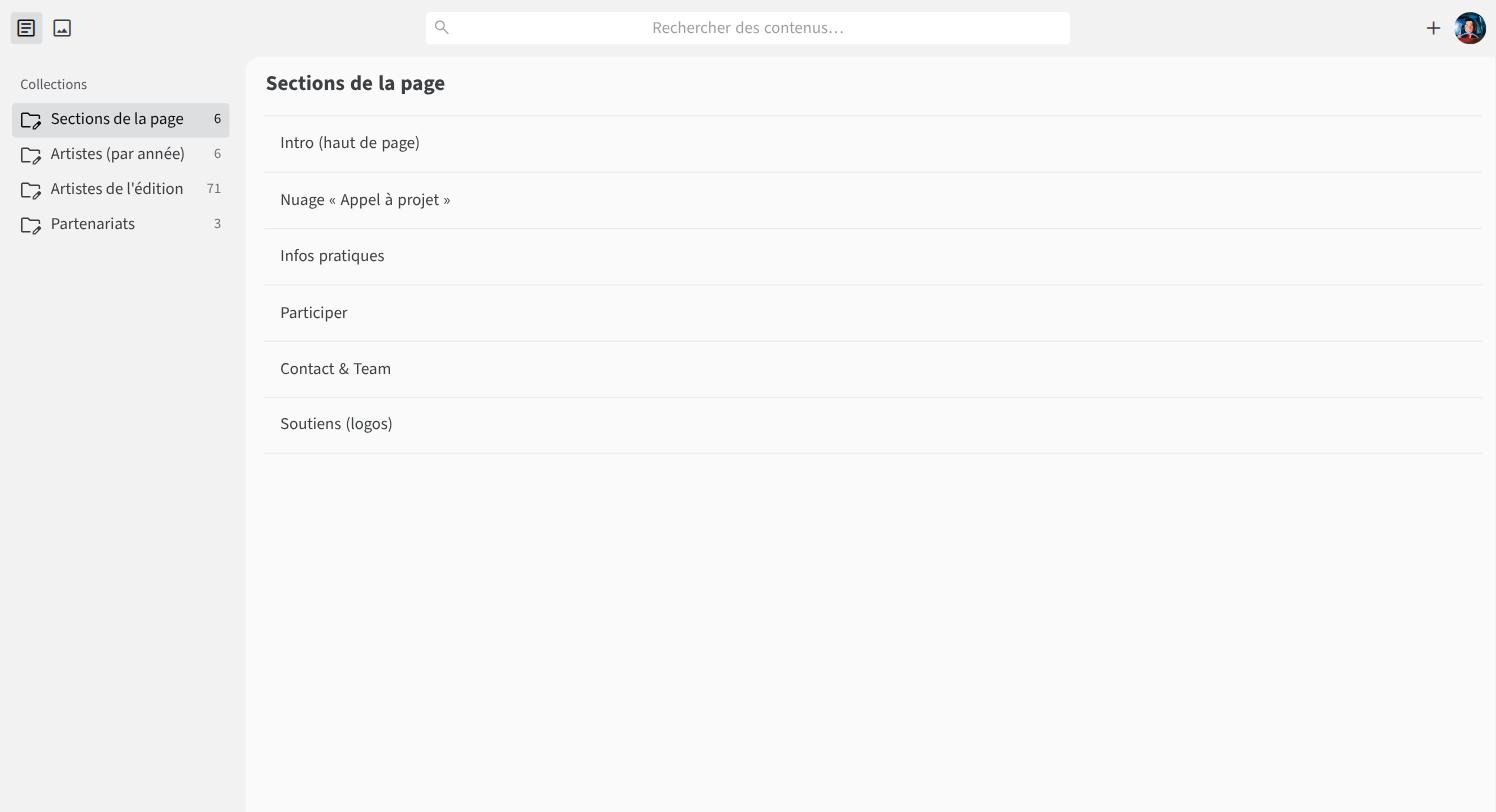
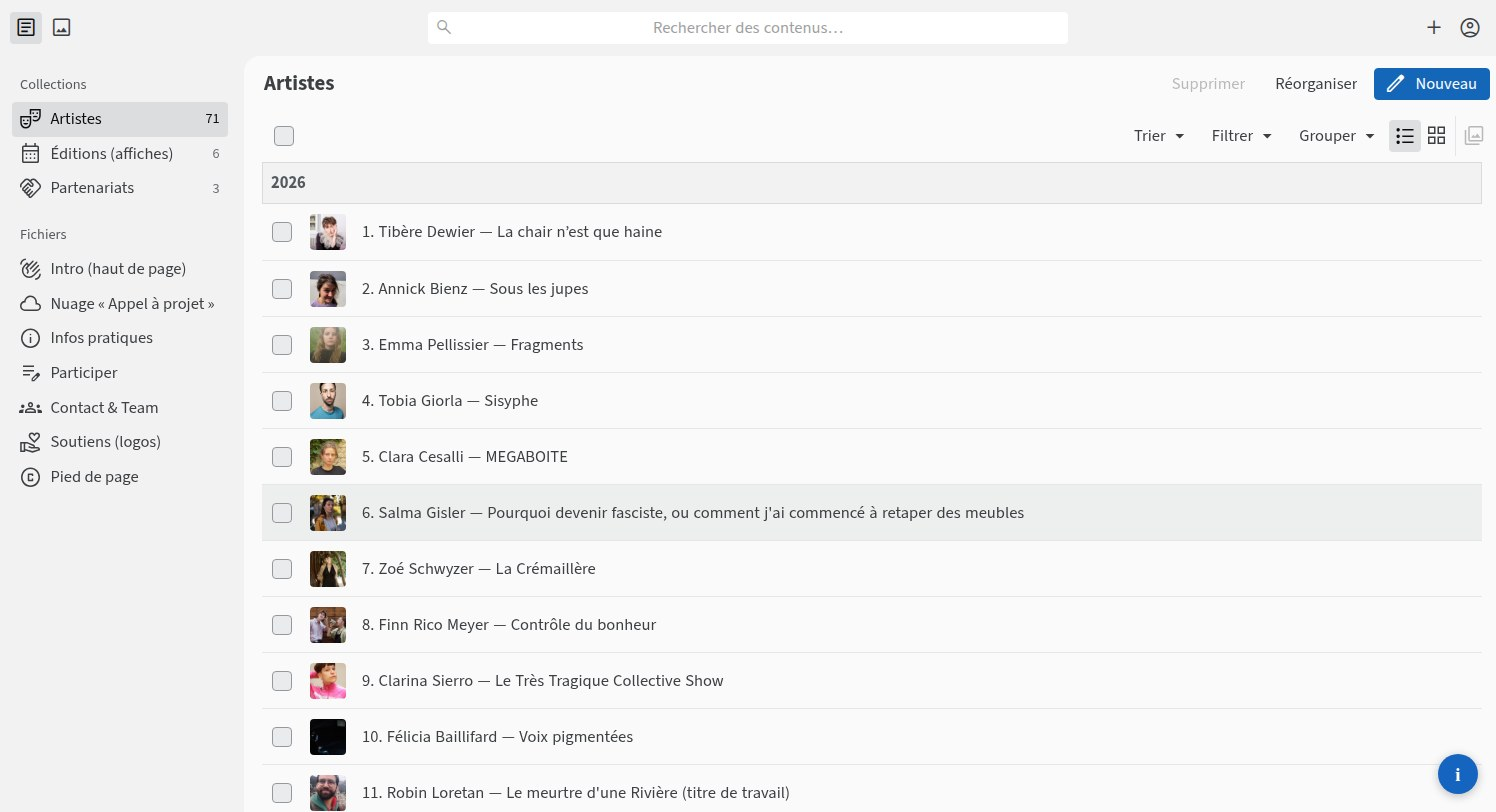
feat(admin): interface organisée par éditions — filtre par défaut, drag-and-drop, sections en accès direct
Refonte de la config Sveltia CMS autour des nouveautés récentes (≥ 0.186) :

- La liste Artistes s'ouvre filtrée sur l'édition 2026 (view_filters.default,
  à déplacer chaque année), avec vignettes photos, tri par ordre et
  regroupement par édition (view_groups).
- Réorganisation par glisser-déposer (bouton « Réorganiser ») : le champ
  order est renuméroté édition par édition, sans renommer les fichiers.
  Idem pour les Partenariats (séquence plate).
- Les sections de la page deviennent des singletons : chacune est en accès
  direct dans la barre latérale (groupe « Fichiers »), avec icône — plus de
  collection « Sections de la page » intermédiaire.
- Icônes et labels clarifiés : « Artistes » (fiches) vs « Éditions
  (affiches) » (année + affiches), app_title, vignettes dans les listes de
  photos/affiches/logos.

Aide (/admin/aide.html) réécrite en conséquence, captures régénérées sur la
nouvelle interface (via le backend test-repo de Sveltia piloté en headless),
dont une nouvelle pour le mode Réorganiser. Conventions CLAUDE.md/README mises
à jour : le préfixe numérique des fichiers reste figé à la création, seul le
champ order fait foi.

Claude-Session: https://claude.ai/code/session_017mh4H3Y21cM26yg5vW5tpT

diff --git a/public/admin/aide.html b/public/admin/aide.html
@@ -133,12 +133,12 @@
       <p>La colonne de gauche liste tout ce qui est modifiable :</p>
       <div class="tablewrap"><table>
         <tr><th>Rubrique</th><th>Contenu</th></tr>
-        <tr><td>Sections de la page</td><td>Les blocs de texte du site : intro, nuage « Appel à projet », Infos pratiques, Participer, Contact &amp; Team, logos des soutiens, ligne du pied de page</td></tr>
-        <tr><td>Artistes de l'édition</td><td>Une fiche par artiste, toutes éditions confondues (71 fiches)</td></tr>
-        <tr><td>Artistes (par année)</td><td>L'affiche de chaque édition et son crédit graphique</td></tr>
+        <tr><td>Artistes</td><td>Une fiche par artiste. La liste s'ouvre sur l'édition en cours ; le menu <b>Filtrer</b> passe aux éditions précédentes</td></tr>
+        <tr><td>Éditions (affiches)</td><td>Une entrée par édition : l'année et ses affiches</td></tr>
         <tr><td>Partenariats</td><td>La Crémaillère, L'entrée en matière, L'Oblique…</td></tr>
+        <tr><td>Fichiers</td><td>Chaque section de texte du site, en accès direct : intro, nuage « Appel à projet », Infos pratiques, Participer, Contact &amp; Team, Soutiens (logos), pied de page</td></tr>
       </table></div>
-      <p>Avec 71 fiches artistes, la <b>recherche</b> (champ en haut au centre) est souvent plus rapide : elle cherche dans toutes les rubriques.</p>
+      <p>Sous <b>Fichiers</b>, un clic sur une section ouvre directement son formulaire — pas de liste intermédiaire. Et avec plus de 70 fiches artistes, la <b>recherche</b> (champ en haut au centre) est souvent la plus rapide : elle cherche dans toutes les rubriques.</p>
       <figure><img src="captures/admin-accueil.jpg" alt="L'accueil de l'admin" loading="lazy"><figcaption>L'accueil : rubriques à gauche, recherche en haut.</figcaption></figure>
       <figure><img src="captures/admin-recherche.jpg" alt="Résultat de recherche" loading="lazy"><figcaption>Taper « Pellissier » retrouve la fiche directement.</figcaption></figure>
     </div>
@@ -148,10 +148,10 @@
 
   <details id="titre">
     <summary><span class="t">Corriger le titre d'un spectacle (ou n'importe quel champ d'une fiche) <a class="anchor" href="#titre">#</a></span><span class="chev">▶</span>
-      <span class="p"><b>Artistes de l'édition</b> → la fiche → champ <b>Titre du spectacle</b> → <b>Enregistrer</b>.</span></summary>
+      <span class="p"><b>Artistes</b> → la fiche → champ <b>Titre du spectacle</b> → <b>Enregistrer</b>.</span></summary>
     <div class="body">
       <ol>
-        <li>Colonne de gauche → <b>Artistes de l'édition</b> (ou taper le nom dans la recherche).</li>
+        <li>Colonne de gauche → <b>Artistes</b> (ou taper le nom dans la recherche). La liste s'ouvre sur l'édition en cours, avec la photo de chaque artiste en vignette ; pour une édition passée, le menu <b>Filtrer</b> en haut de la liste.</li>
         <li>Cliquer sur la ligne de l'artiste. La liste affiche <code>ordre. Nom — Titre du spectacle</code>.</li>
         <li>Dans la fiche, corriger le champ voulu. L'aperçu à droite se met à jour en direct.</li>
         <li><b>Enregistrer</b>, en haut à droite.</li>
@@ -163,7 +163,7 @@
 
   <details id="nouvelle-fiche">
     <summary><span class="t">Ajouter un·e artiste <a class="anchor" href="#nouvelle-fiche">#</a></span><span class="chev">▶</span>
-      <span class="p"><b>Artistes de l'édition</b> → <b>Nouveau</b> (en haut à droite) → remplir → <b>Enregistrer</b>. Année = <b>2026</b>, Ordre = rang de la première représentation.</span></summary>
+      <span class="p"><b>Artistes</b> → <b>Nouveau</b> (en haut à droite) → remplir → <b>Enregistrer</b>. Année = <b>2026</b>, Ordre = rang de la première représentation.</span></summary>
     <div class="body">
       <figure><img src="captures/admin-artistes-liste.jpg" alt="La liste des fiches artistes" loading="lazy"><figcaption>Le bouton Nouveau, en haut à droite de la liste.</figcaption></figure>
       <p>Chaque fiche devient une carte qui se retourne sur le site : photo et nom au recto, tout le reste au verso.</p>
@@ -204,9 +204,11 @@
 
   <details id="ordre">
     <summary><span class="t">Changer l'ordre des artistes <a class="anchor" href="#ordre">#</a></span><span class="chev">▶</span>
-      <span class="p">Fiche → champ <b>Ordre</b> → le numéro de passage → <b>Enregistrer</b>.</span></summary>
+      <span class="p"><b>Artistes</b> → bouton <b>Réorganiser</b> (en haut de la liste) → glisser les fiches → <b>Terminer</b>.</span></summary>
     <div class="body">
-      <p>Les artistes apparaissent sur le site dans l'ordre du champ <b>Ordre</b>, du plus petit au plus grand, à l'intérieur de leur année. La convention : numéroter selon la première représentation de chacun·e. Deux fiches peuvent porter le même numéro si elles sont d'années différentes.</p>
+      <p>Le plus simple : dans la liste <b>Artistes</b>, cliquer <b>Réorganiser</b>. Les fiches se regroupent par édition et se déplacent à la souris (ou au doigt) ; en terminant, la numérotation est réécrite automatiquement, édition par édition. On ne peut pas déplacer une fiche d'une édition à l'autre — pour ça, changer son champ <b>Année</b>.</p>
+      <figure><img src="captures/admin-reorganiser.jpg" alt="Le mode Réorganiser, fiches groupées par édition" loading="lazy"><figcaption>Le mode Réorganiser : glisser une fiche, puis Terminé.</figcaption></figure>
+      <p>L'autre méthode marche toujours : ouvrir la fiche et taper le numéro dans le champ <b>Ordre</b>. Les artistes apparaissent sur le site dans l'ordre de ce champ, du plus petit au plus grand, à l'intérieur de leur année. La convention : numéroter selon la première représentation de chacun·e. Deux fiches peuvent porter le même numéro si elles sont d'années différentes.</p>
     </div>
   </details>
 
@@ -221,9 +223,10 @@
 
   <details id="affiche">
     <summary><span class="t">Ajouter l'affiche d'une nouvelle édition <a class="anchor" href="#affiche">#</a></span><span class="chev">▶</span>
-      <span class="p"><b>Artistes (par année)</b> → <b>Nouveau</b> → Année → Affiches (image + crédit graphiste) → <b>Enregistrer</b>.</span></summary>
+      <span class="p"><b>Éditions (affiches)</b> → <b>Nouveau</b> → Année → Affiches (image + crédit graphiste) → <b>Enregistrer</b>.</span></summary>
     <div class="body">
       <p>Une entrée par édition. Le champ <b>Année</b> doit être identique à celui des fiches artistes de cette édition (ex. <code>2026</code>) : c'est ce qui fait apparaître l'onglet dans la section Artistes. On peut mettre plusieurs affiches si l'édition en a eu plusieurs.</p>
+      <div class="note">Pour une nouvelle édition, demander aussi à Pierre de mettre à jour le filtre par défaut de la liste Artistes (un réglage dans la configuration de l'admin), pour qu'elle s'ouvre sur la nouvelle année.</div>
     </div>
   </details>
 
@@ -231,7 +234,7 @@
 
   <details id="sections">
     <summary><span class="t">Modifier l'intro, les Infos pratiques, Participer, Contact &amp; Team <a class="anchor" href="#sections">#</a></span><span class="chev">▶</span>
-      <span class="p"><b>Sections de la page</b> → la section → le texte → <b>Enregistrer</b>.</span></summary>
+      <span class="p">Colonne de gauche, groupe <b>Fichiers</b> → la section → le texte → <b>Enregistrer</b>.</span></summary>
     <div class="body">
       <div class="tablewrap"><table>
         <tr><th>Section</th><th>Ce qu'elle contient</th></tr>
@@ -255,7 +258,7 @@
 
   <details id="nuage">
     <summary><span class="t">Afficher ou masquer le nuage « Appel à projet » <a class="anchor" href="#nuage">#</a></span><span class="chev">▶</span>
-      <span class="p"><b>Sections de la page</b> → <b>Nuage « Appel à projet »</b> → case <b>Visible</b> → <b>Enregistrer</b>.</span></summary>
+      <span class="p">Colonne de gauche → <b>Nuage « Appel à projet »</b> → case <b>Visible</b> → <b>Enregistrer</b>.</span></summary>
     <div class="body">
       <ul>
         <li><b>Visible</b> : l'interrupteur. Coché à l'ouverture de l'appel, décoché à la clôture.</li>
@@ -269,7 +272,7 @@
 
   <details id="logos">
     <summary><span class="t">Ajouter ou retirer un logo de soutien <a class="anchor" href="#logos">#</a></span><span class="chev">▶</span>
-      <span class="p"><b>Sections de la page</b> → <b>Soutiens (logos)</b> → liste <b>Logos</b> → ajouter / supprimer → <b>Enregistrer</b>.</span></summary>
+      <span class="p">Colonne de gauche → <b>Soutiens (logos)</b> → liste <b>Logos</b> → ajouter / supprimer → <b>Enregistrer</b>.</span></summary>
     <div class="body">
       <p>Chaque logo = une image, un <b>Nom</b> (affiché si l'image ne charge pas, et lu par les lecteurs d'écran) et, si on veut, un <b>Lien</b> vers le site de l'institution. L'ordre de la liste est l'ordre d'affichage : les flèches déplacent un logo.</p>
       <p>Format idéal : PNG à fond transparent, ou SVG. Éviter les logos en JPEG avec un fond blanc, ils font un rectangle sur le fond rose.</p>
@@ -280,7 +283,7 @@
     <summary><span class="t">Modifier ou ajouter un partenariat <a class="anchor" href="#partenariats">#</a></span><span class="chev">▶</span>
       <span class="p"><b>Partenariats</b> → la fiche (ou <b>Nouveau</b>) → Nom, Ordre, Texte → <b>Enregistrer</b>.</span></summary>
     <div class="body">
-      <p>Un partenariat = un nom, un ordre d'affichage et un texte. Ils s'affichent dans la section Partenariats, triés par <b>Ordre</b>.</p>
+      <p>Un partenariat = un nom, un ordre d'affichage et un texte. Ils s'affichent dans la section Partenariats, triés par <b>Ordre</b> — modifiable aussi par glisser-déposer avec le bouton <b>Réorganiser</b>, en haut de la liste.</p>
     </div>
   </details>
 

diff --git a/CLAUDE.md b/CLAUDE.md
@@ -39,13 +39,13 @@ Pas de tests ni de linter configurés.
   - Infomaniak (seul déploiement) : `.github/workflows/deploy-infomaniak.yml`, déclenché par `dev` — `npm run generate` puis rsync de `.output/public` via SSH vers l'hébergement mutualisé Infomaniak (secrets `INFOMANIAK_*` dans GitHub ; le job se saute tant qu'ils manquent). En production sur `faiscommecheztoi.ch` depuis la bascule d'août 2026 — le domaine a été repointé dans le Manager du dossier WordPress vers ce dossier (rollback = repointer l'ancien dossier tant qu'il existe). Servi à la racine, provider d'images IPX (build-time) — ne pas mettre `NUXT_IMAGE_PROVIDER=cloudflare`. `public/.htaccess` porte les 301 depuis les anciennes URLs WordPress.
   - Cloudflare Workers (alternative, non utilisée) : `wrangler.jsonc` sert `.output/public` en static assets.
 
-- **CMS.** `public/admin/` : Sveltia CMS, backend GitHub sur la branche `dev`, OAuth via le worker `sveltia-cms-auth` (le repo doit être autorisé dans le worker). Les images uploadées vont dans `public/uploads/`.
+- **CMS.** `public/admin/` : Sveltia CMS, backend GitHub sur la branche `dev`, OAuth via le worker `sveltia-cms-auth` (le repo doit être autorisé dans le worker). Les images uploadées vont dans `public/uploads/`. L'interface s'appuie sur des options Sveltia ≥ 0.186 (`index.html` charge la dernière version depuis unpkg) : les sections de la page sont des `singletons` (accès direct dans la barre latérale), la liste des artistes s'ouvre filtrée sur l'édition courante (`view_filters.default` — **à déplacer chaque année** dans `config.yml`), et l'ordre se change par glisser-déposer (`reorder: {group: year}`, renuméroté édition par édition dans le champ `order`).
 
 ## Conventions
 
 - Les images de contenu vivent dans `public/uploads/`.
 - Après ajout/changement d'images, toujours lancer `npm run update-images` (ou `npm run generate`).
-- Les fichiers `content/partenariats/` et `content/programme/` gardent leur préfixe numérique (ordre d'affichage, doublé par le champ `order`). Pour `programme/`, l'ordre est celui de la première représentation, et le champ `year` décide sous quel onglet de la section Artistes la fiche apparaît.
+- Les fichiers `content/partenariats/` et `content/programme/` gardent un préfixe numérique dans leur nom, fixé à la création. C'est le champ `order` du frontmatter qui fait foi pour l'affichage : le réordonnancement par glisser-déposer du CMS réécrit `order` sans renommer les fichiers, le préfixe peut donc diverger — ne pas s'y fier. Pour `programme/`, l'ordre est celui de la première représentation, et le champ `year` décide sous quel onglet de la section Artistes la fiche apparaît.
 - Tout tri `queryContent` sur un champ numérique doit passer `$numeric: true` — sinon les valeurs sont comparées comme des chaînes et 10 se retrouve entre 1 et 2.
 - Une fiche artiste porte ses portraits dans un `photos:` **à la racine** du frontmatter (liste : la première s'affiche, les suivantes se feuillettent) : `updateImageDimensions.mjs` ne descend pas dans les objets imbriqués, un portrait rangé ailleurs serait ignoré en silence.
 - Les réponses brutes des artistes (tableurs, photos originales) vivent dans `formulaires/`, hors dépôt (200 Mo, ignoré par git).

diff --git a/README.md b/README.md
@@ -28,6 +28,8 @@ Le contenu vit dans `content/` (une section = un fichier / dossier). Après tout
 
 <https://faiscommecheztoi.ch/admin/> — Sveltia CMS écrit directement dans ce dépôt : chaque enregistrement est un commit sur `dev`, qui déclenche le déploiement. Une modification est donc en ligne 2–3 minutes plus tard.
 
+L'interface ([`public/admin/config.yml`](public/admin/config.yml)) est organisée autour des éditions : la liste **Artistes** s'ouvre filtrée sur l'édition courante (menu *Filtrer* pour les années passées, vignettes photos, bouton *Réorganiser* pour changer l'ordre par glisser-déposer — renuméroté édition par édition dans le champ `order`, sans renommer les fichiers), **Éditions (affiches)** porte l'année et les affiches, et chaque section de texte est en accès direct dans la barre latérale (groupe *Fichiers*). **À chaque nouvelle édition** : créer l'entrée dans Éditions, puis dans `config.yml` ajouter le filtre « Édition &lt;année&gt; » et déplacer `view_filters.default` dessus.
+
 L'aide destinée à l'équipe vit dans l'admin lui-même : le bouton ⓘ en bas à droite ouvre [`public/admin/aide.html`](public/admin/aide.html) (aussi accessible à `/admin/aide.html`) — un aide-mémoire par tâche, dépliable en mode d'emploi complet, captures dans `public/admin/captures/`. Le bouton est posé par `public/admin/index.html` par-dessus Sveltia, sans rien brancher dans le CMS.
 
 ### Donner l'accès à quelqu'un
